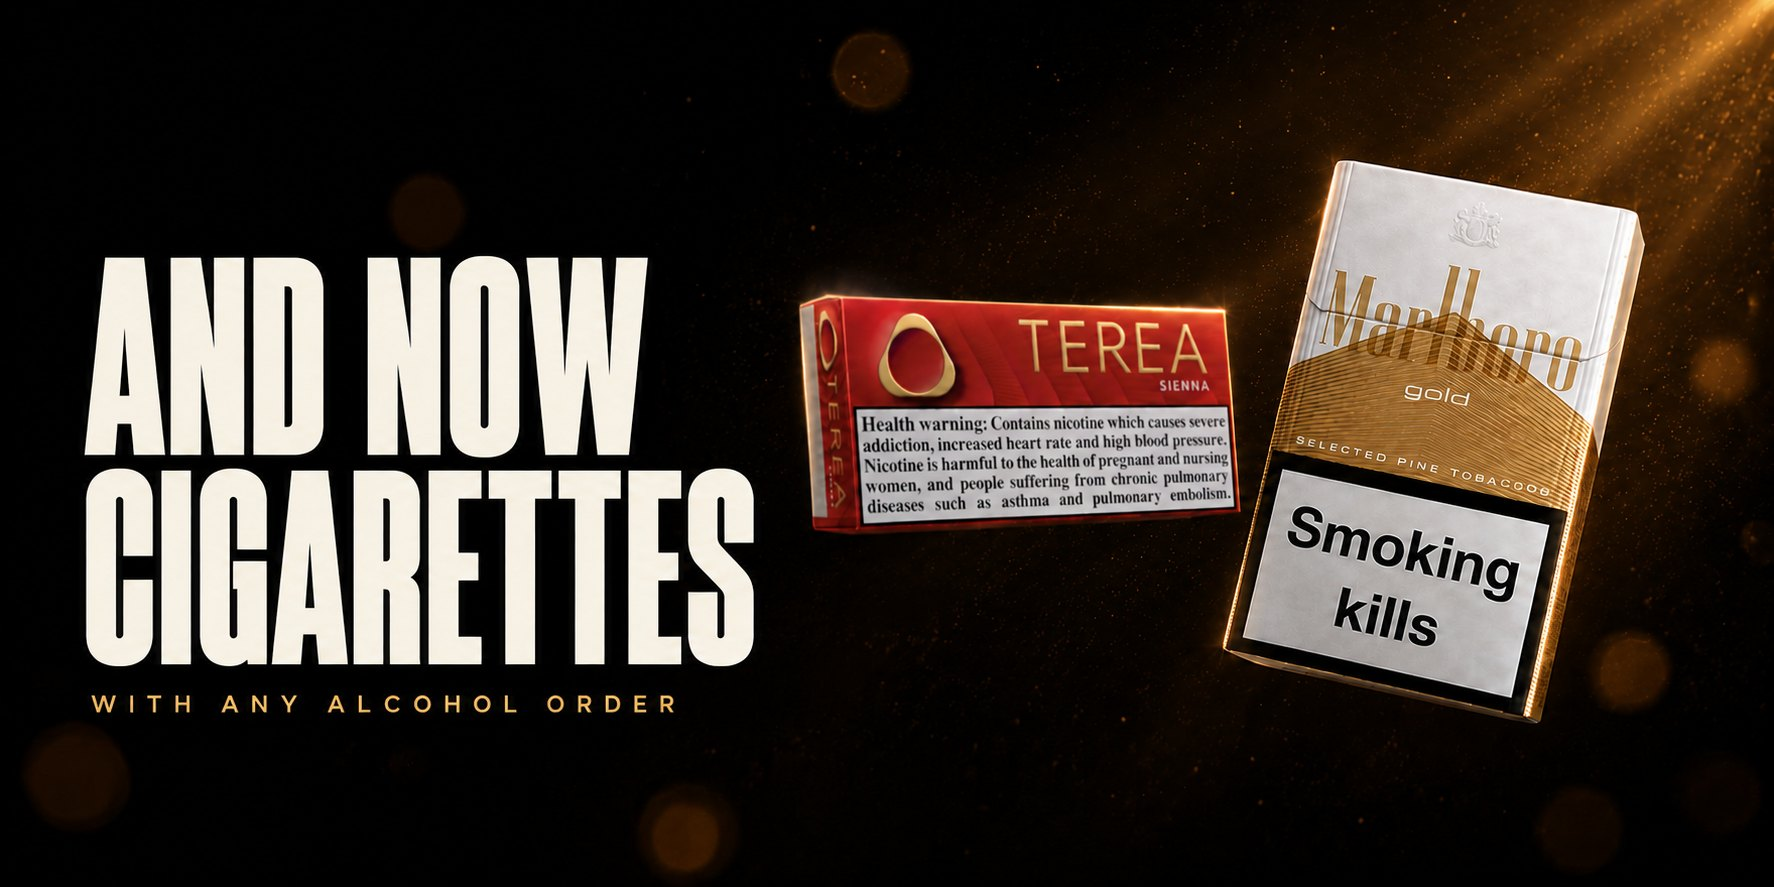
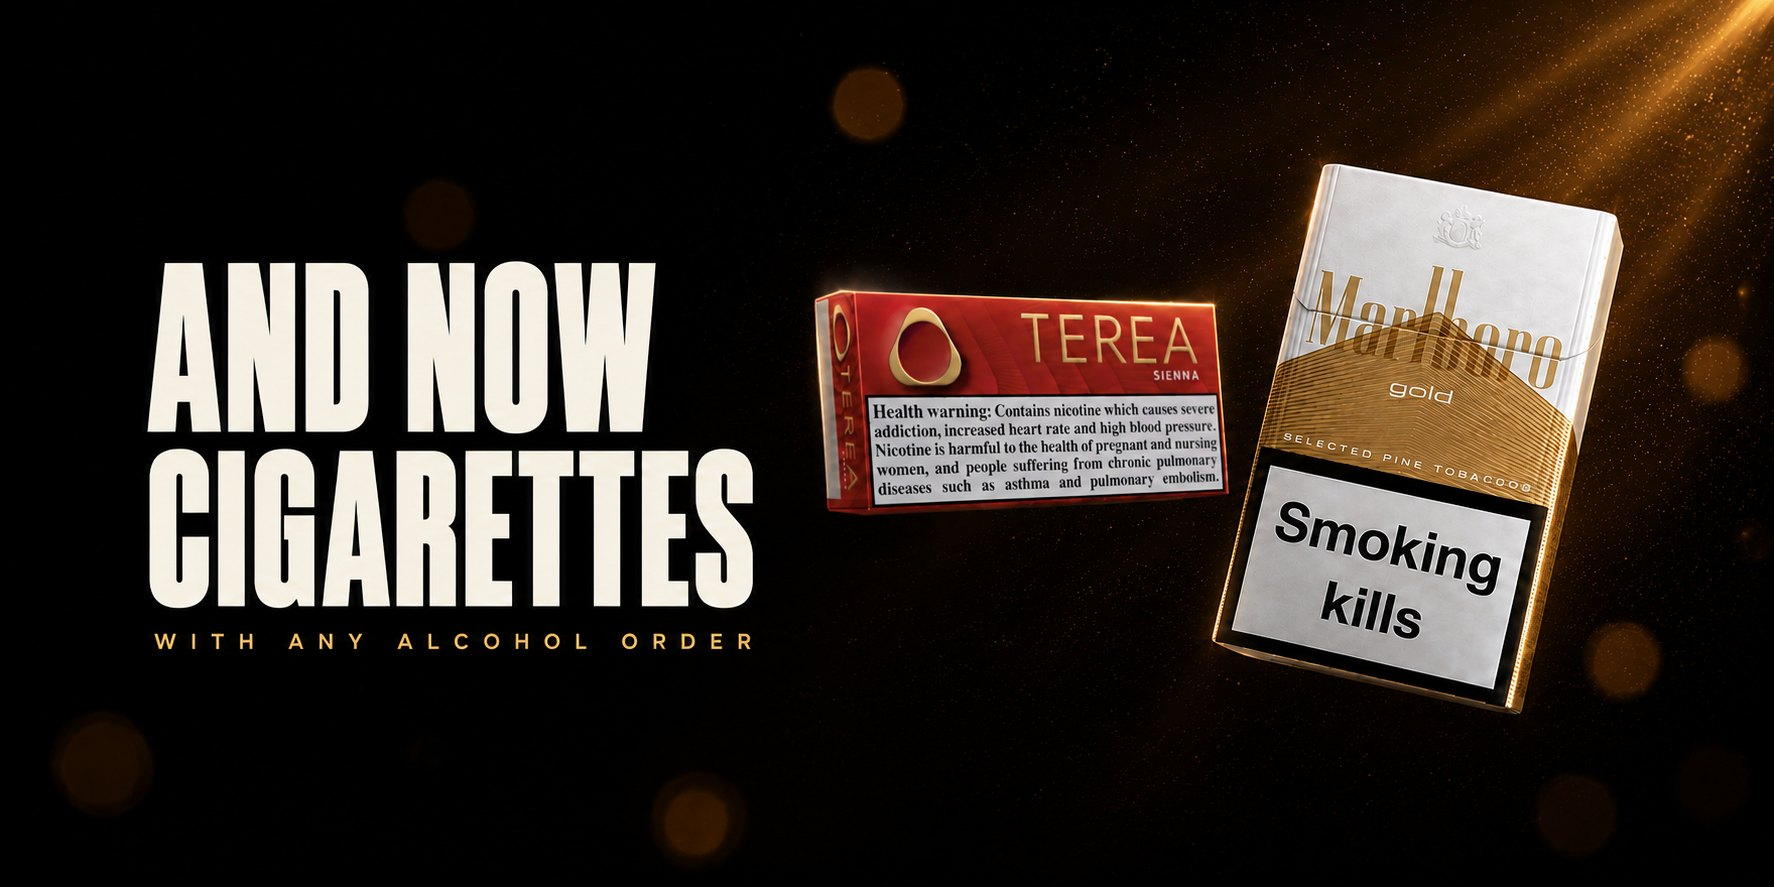
Баннеры сигарет перерисованы с нормальным полем слева
Текст начинался на 5% от края и выглядел обрезанным. В новых — 10.5% и 8.3%.
Версия в адресе поднята: без неё пользователи получили бы старые из кэша.

diff --git a/index-6.html b/index-6.html
@@ -4153,7 +4153,7 @@ function _buildPromoCarousel(){
     // статики, cloudflare успел закэшировать по этому адресу четырёхсотку и
     // отдавал её ещё сутки после того, как файл появился. Новый адрес —
     // новый кэш; менять цифру нужно, когда меняется сам файл.
-    im.src=src+(src.includes('?')?'':'?v=2'); im.alt='promo'; im.draggable=false; im.loading='lazy';
+    im.src=src+(src.includes('?')?'':'?v=3'); im.alt='promo'; im.draggable=false; im.loading='lazy';
     sl.appendChild(im); track.appendChild(sl);
     if(dotsEl){
       const d=document.createElement('button'); d.type='button'; d.className='promo-dot'; d.setAttribute('aria-label','Слайд '+(i+1));
